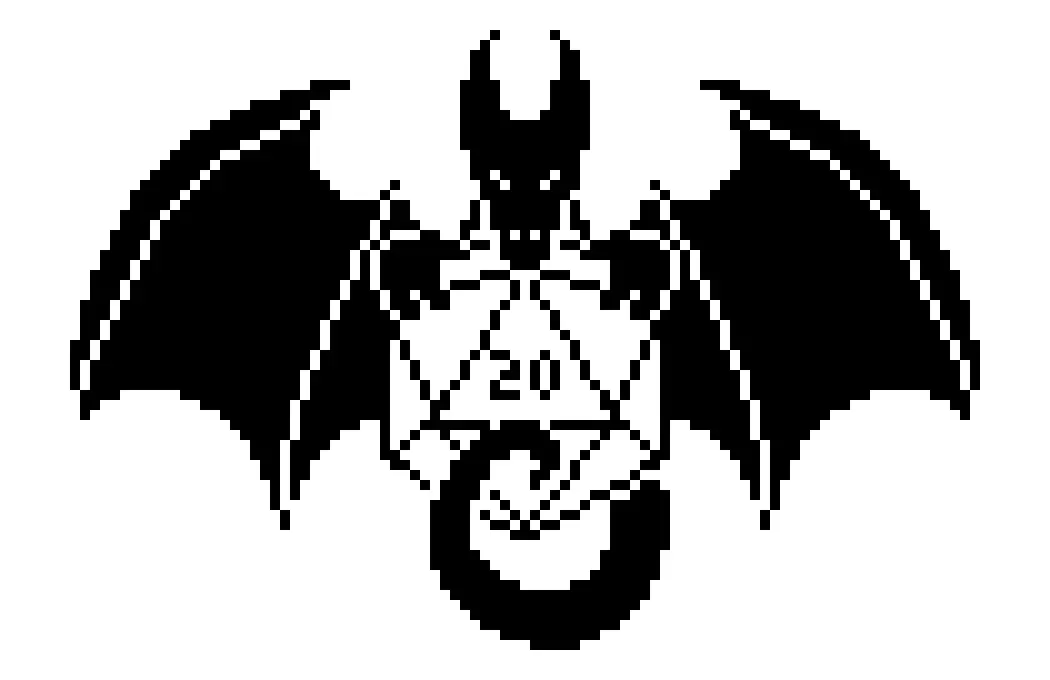
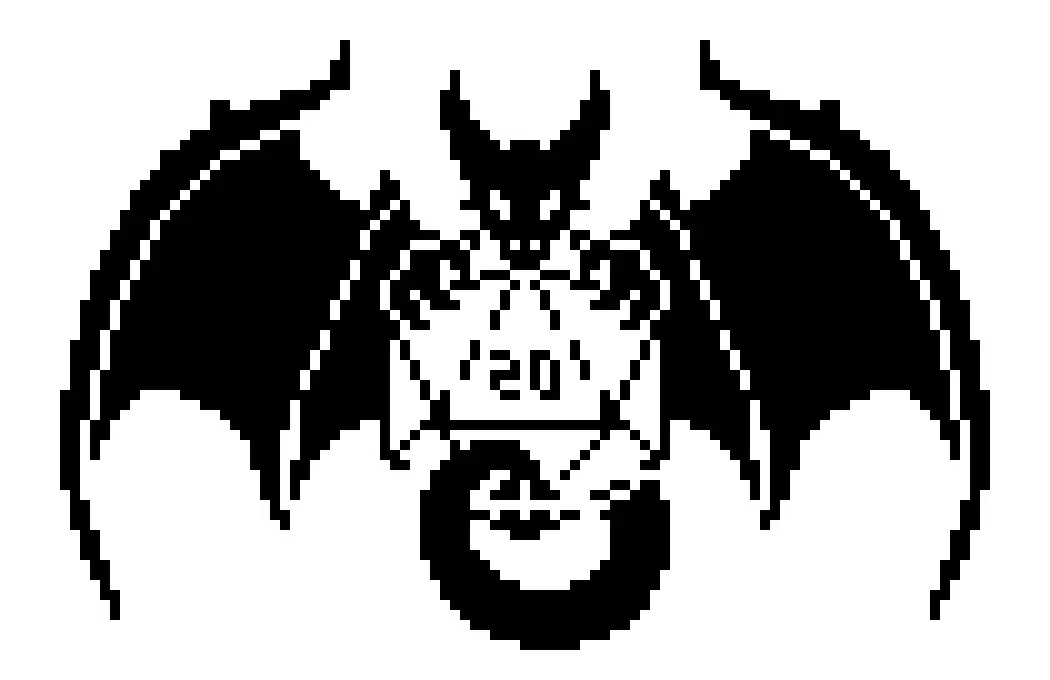
feat: Login and Sign-out controlles and modules

diff --git a/src/controllers/sheet_controller.js b/src/controllers/sheet_controller.js
@@ -1,0 +1,38 @@
+const { createSheetModel } = require('../models/sheet_model.js');
+const { getSheetsController } = require('../controllers/sheet_controller.js');
+const { findUserID } = require('../models/user_model.js');
+
+export async function createSheetController(req, res) {
+    try {
+        const user = await findUserID(req.body.firebase_uid);
+        if (!user) {
+            return res.status(404).json({ error: 'User not found' });
+        }
+        // Create sheet logic
+        const sheet_data = JSON.stringify(req.body.data);
+        // Alert: user.user_id may cause issues if the DB schema changes
+        await createSheetModel(user.user_id, sheet_data);
+        return res.status(201).json({ message: 'Sheet created successfully' });
+    } catch (error) {
+        console.error('Error creating sheet:', error);
+        return res.status(500).json({ error: 'Error creating sheet' });
+    };
+};
+
+export async function getSheetsController(req, res) {
+    try {
+        const user = await findUserID(req.body.firebase_uid);
+        if (!user) {
+            return res.status(404).json({ error: 'User not found' });
+        }
+        const sheets = await getSheetsByUserID(user.user_id);
+        const data = sheets.map(sheet => ({
+            sheet_id: sheet.sheet_id,
+            data: JSON.parse(sheet.data)
+        }));
+        res.status(200).json({ sheets: data });
+    } catch (error) {
+        console.error('Error retrieving sheets:', error);
+        res.status(500).json({ error: 'Error retrieving sheets' });  
+    };
+};

diff --git a/src/models/user_model.js b/src/models/user_model.js
@@ -1,0 +1,19 @@
+const { initializeDatabase } = require('../../database/db_setup.js');
+
+export async function createUserModel(firebase_uid,user_id, data) {
+    const db = await initializeDatabase();
+    const result = await db.run(
+        `INSERT INTO Users (firebase_uid, user_id, data) VALUES (?, ?, ?)`,
+        [firebase_uid, user_id, data] 
+    );
+    return result;
+};
+
+export async function findUserID(firebase_uid) {
+    const db = await initializeDatabase();
+    const result = await db.get(
+        `SELECT * FROM Users WHERE firebase_uid = ?`,
+        [firebase_uid]
+    );
+    return result;
+};

diff --git a/src/models/sheet_model.js b/src/models/sheet_model.js
@@ -1,0 +1,19 @@
+const { initializeDatabase } = require('../../database/db_setup.js');
+
+export async function createSheetModel(user_id, data) {
+    const db = await initializeDatabase();
+    const result = await db.run(
+        `INSERT INTO UserCharSheet (user_id, data) VALUES (?, ?)`,
+        [user_id, data] 
+    );
+    return result;
+};
+
+export async function getSheetsByUserID(user_id) {
+    const db = await initializeDatabase();
+    const result = await db.all(
+        `SELECT * FROM UserCharSheet WHERE user_id = ?`,
+        [user_id]
+    );
+    return result;
+};

diff --git a/api.js b/api.js
@@ -28,6 +28,7 @@ async function initializeApp() {
         console.log('Firebase Admin Initialized...');
     } catch (error) {
         console.error('Firebase Admin Initialization Error', error);
+        process.exit(1);
     }
 
     // Database
@@ -41,8 +42,8 @@ async function initializeApp() {
     }
     
     // Routes
-    // const fichaRoutes = require('./routes/ficha_routes');
-    // app.use('/', fichaRoutes); 
+    const routes = require('./src/routes/routes.js');
+    app.use('/sheets', routes);
     
     // Initialize server
     app.listen(PORT, () => {

diff --git a/public/index.html b/public/index.html
@@ -26,6 +26,6 @@
         </section>
         <p id="p_sign" class="title">Don't have an account? <a href="sign_up.html">Sign-up</a></p>
     </main>
-    <script type="module" src="js/controller/auth_controller.js"></script>
+    <script type="module" src="js/controllers/auth_controller.js"></script>
 </body>
 </html>

diff --git a/public/workshop.html b/public/workshop.html
@@ -95,6 +95,6 @@
         </div>
     </main>
     <script src="js/views/workshop_controller.js"></script>
-    <script type="module" src="js/controller/auth_controller.js"></script>
+    <script type="module" src="js/controllers/auth_controller.js"></script>
 </body>
 </html>

diff --git a/src/routes/routes.js b/src/routes/routes.js
@@ -1,0 +1,5 @@
+const express = require('express');
+const router = express.Router();
+const { createSheetController } = require('../controllers/sheet_controller.js');
+
+router.post('/sheets', createSheetController);
